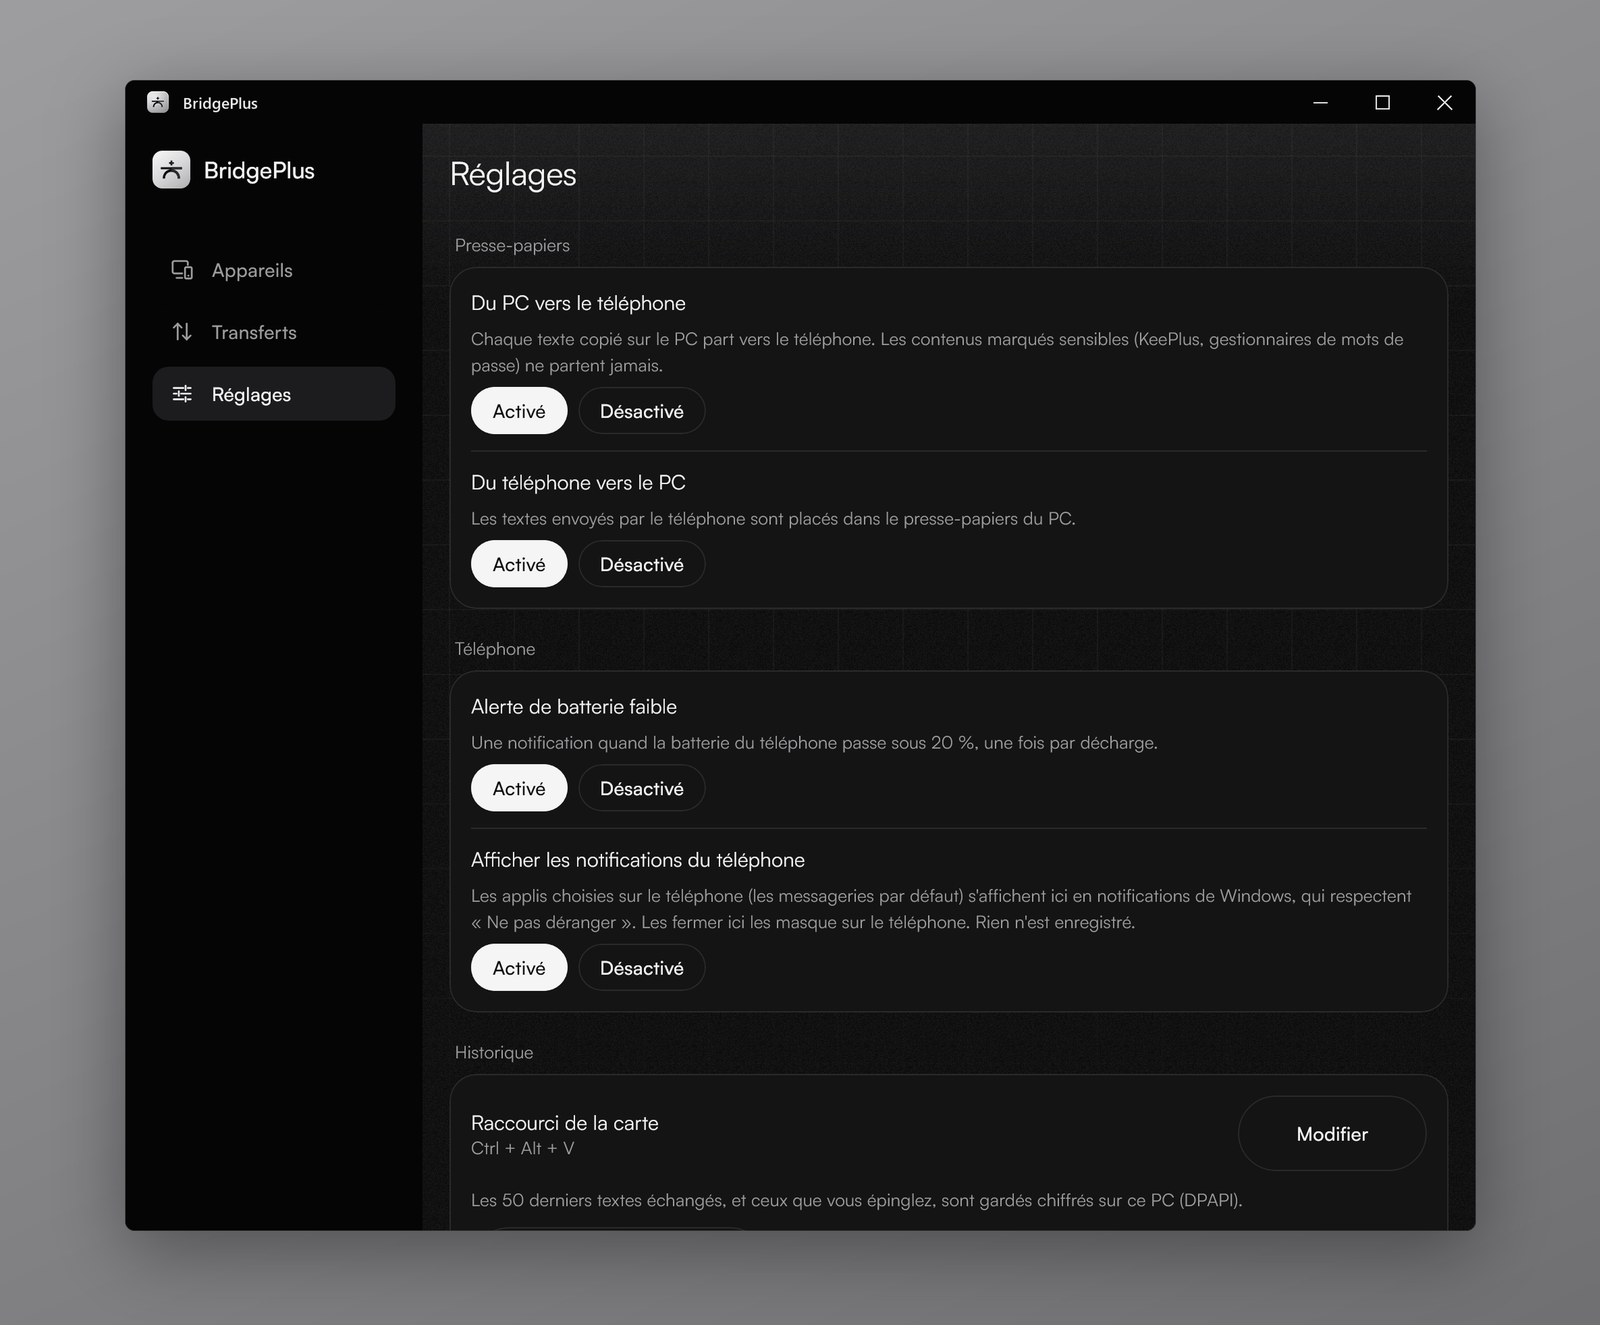
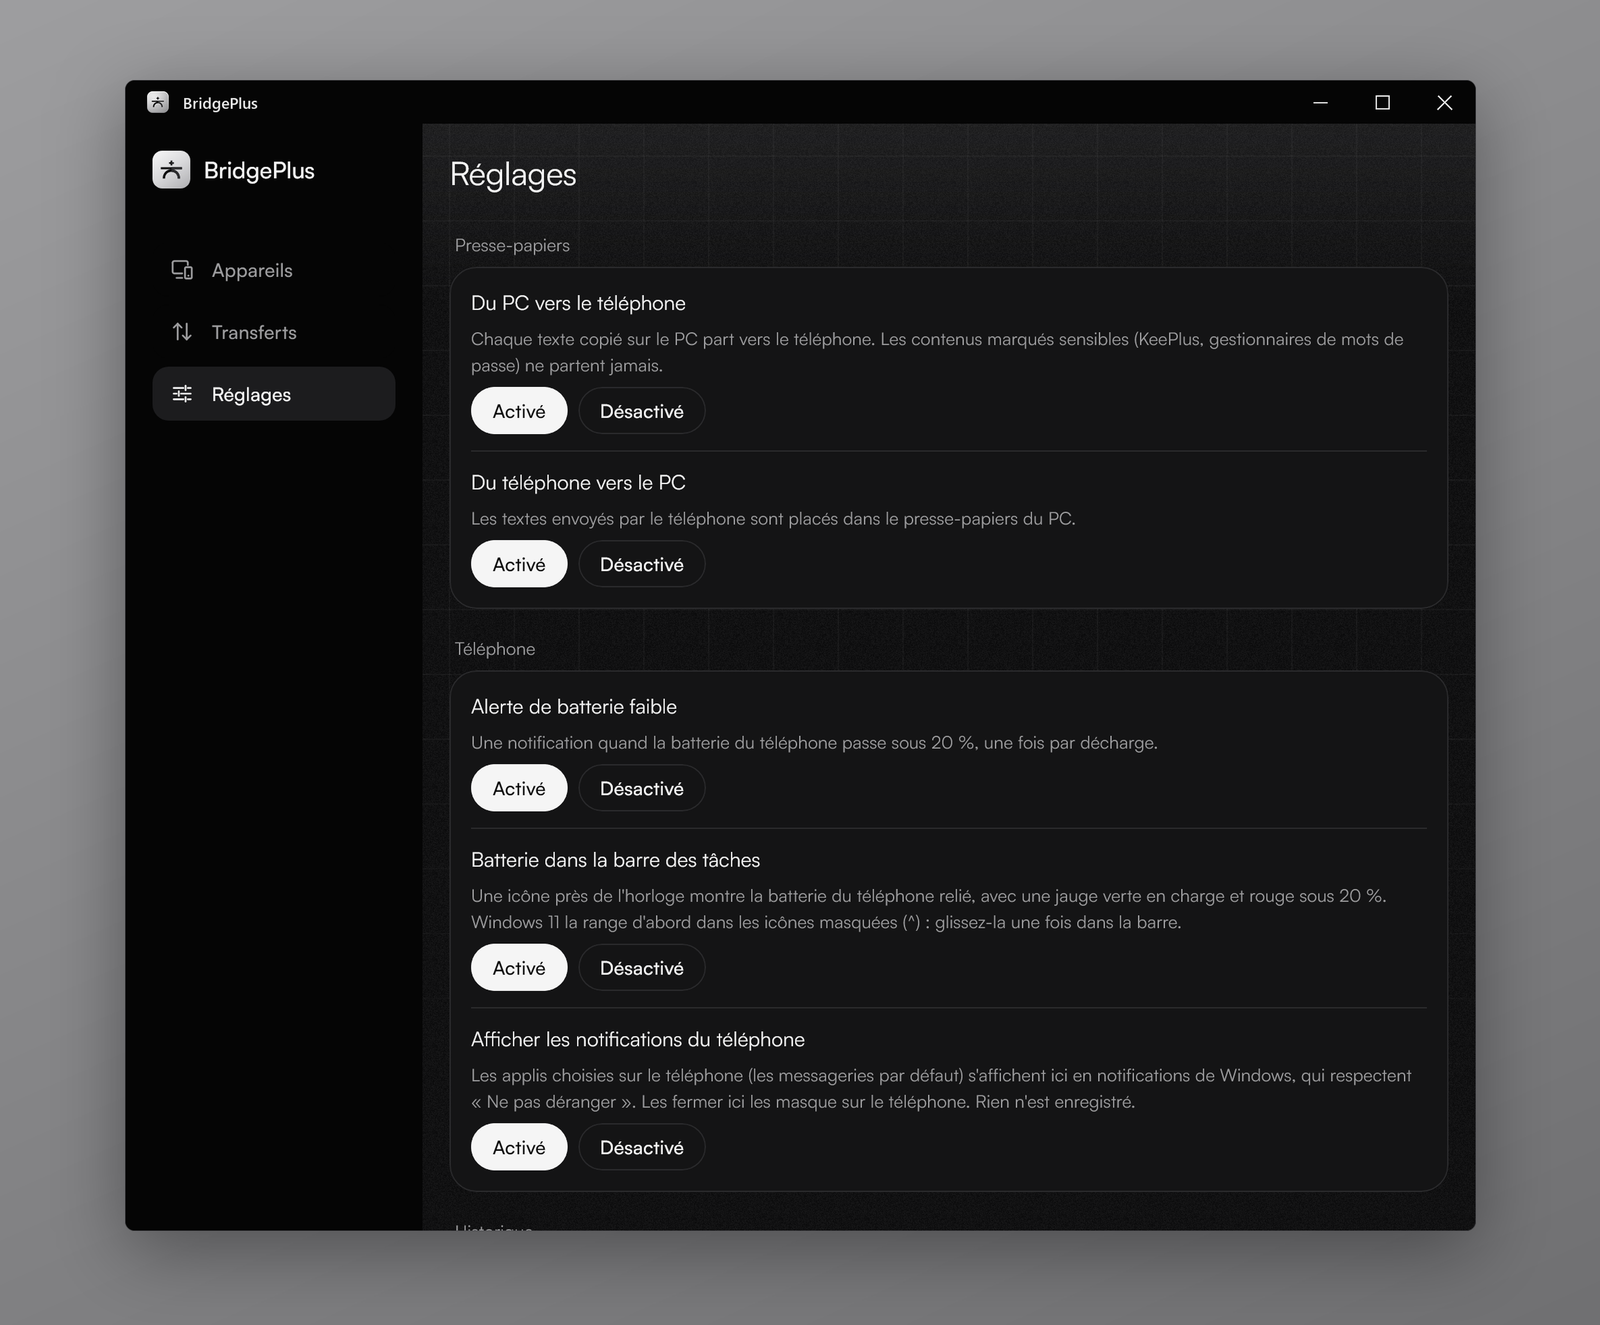
docs: visuel de la batterie dans la barre des tâches, visuels regénérés

Changed region(s): [[0.2812, 0.7736, 0.875, 0.9283], [0.2812, 0.6189, 0.875, 0.7117]]

diff --git a/README.md b/README.md
@@ -118,6 +118,17 @@ Copiez sur le PC, collez sur le téléphone, et inversement.
 | **Zone de notification** | L'appli reste près de l'horloge ; démarrage avec Windows au choix | — | ✅ |
 | **Mises à jour** | Nouvelle version proposée et installée par l'appli | ✅ | ✅ |
 
+## La batterie du téléphone, d'un coup d'œil
+
+<p align="center">
+  <img src="doc/images/pc-batterie.png" alt="L'icône de la batterie du téléphone près de l'horloge, sur une barre des tâches sombre et claire, et ses états : normal, en charge, sous 20 %, pleine, sans téléphone relié" width="100%">
+</p>
+
+Une icône près de l'horloge montre la batterie du téléphone relié : le pourcentage en grand et
+une jauge, **verts en charge, rouges sous 20 %**. L'info-bulle donne le nom du téléphone. Sans
+téléphone relié, un tiret grisé. Windows 11 la range d'abord dans les icônes masquées (^) :
+glissez-la une fois dans la barre. Réglage « Batterie dans la barre des tâches ».
+
 ## Un premier lancement guidé
 
 <p align="center">
